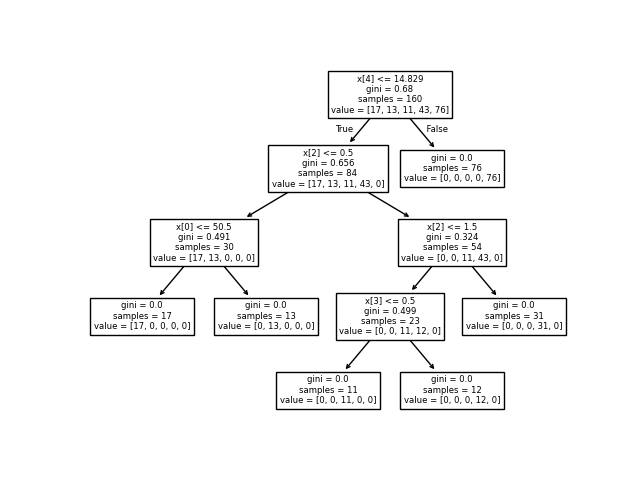
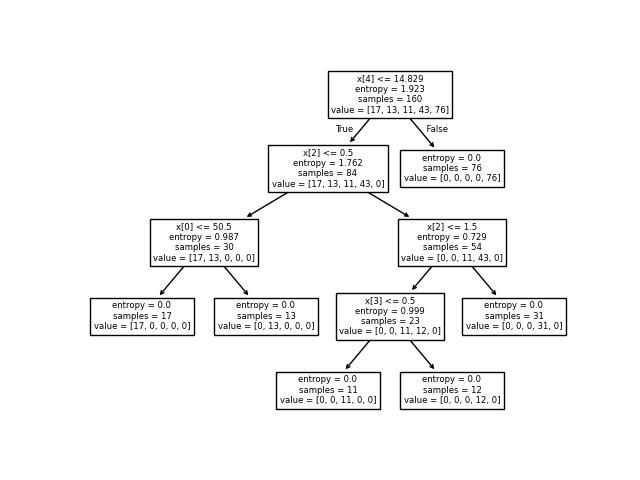
Regression trees

diff --git a/lecture-4:learning/coursera/Regression_Tree/model.py b/lecture-4:learning/coursera/Regression_Tree/model.py
@@ -1,0 +1,38 @@
+import pandas as pd
+from sklearn.preprocessing import normalize
+from sklearn.model_selection import train_test_split
+from sklearn.tree import DecisionTreeRegressor
+from sklearn.metrics import r2_score,mean_squared_error
+
+
+path="https://cf-courses-data.s3.us.cloud-object-storage.appdomain.cloud/pu9kbeSaAtRZ7RxdJKX9_A/yellow-tripdata.csv"
+data=pd.read_csv(path)
+
+
+correlation=data.corr()["tip_amount"].drop('tip_amount')
+# print(correlation)
+top_three=correlation.sort_values(ascending=False)[:3]
+print(top_three)
+
+evidence=data.drop('tip_amount',axis=1)
+evidence.drop(['payment_type', 'VendorID', 'store_and_fwd_flag', 'improvement_surcharge'],axis=1)
+evidence=evidence.values
+
+target=data[['tip_amount']].values.astype('float32')
+# print(target)
+
+evidence=normalize(evidence,norm='l1',copy=False)
+
+x_train,x_test,y_train,y_test=train_test_split(
+    evidence, target, test_size=0.2, random_state=32
+)
+
+model=DecisionTreeRegressor(criterion='squared_error',max_depth=4,random_state=35)
+model.fit(x_train,y_train)
+prediction=model.predict(x_test)
+
+mse=mean_squared_error(y_test,prediction)
+r2=r2_score(y_test,prediction)
+
+print('MSE score : {0:.3f}'.format(mse))
+print('R2 score : {0:.3f}'.format(r2))

diff --git a/lecture-4:learning/coursera/Decision_Tree/model.py b/lecture-4:learning/coursera/Decision_Tree/model.py
@@ -11,17 +11,21 @@ data=pd.read_csv(path)
 
 label_encoder=LabelEncoder()
 categorical_columns=data.select_dtypes(include=['object']).columns.tolist()
+categorical_columns.remove('Drug')
 
 for column in categorical_columns:
     data[column]=label_encoder.fit_transform(data[column])
 
+custom_map={'drugA':0,'drugB':1,'drugC':2,'drugX':3,'drugY':4}
+data["Drug_num"]=data['Drug'].map(custom_map)
+
 print(data.sample(5))
-# print(data.isnull().sum())
-corr=data.drop('Drug',axis=1).corr()
+
+corr=data.drop("Drug",axis=1).corr()["Drug_num"]
 print(corr)
 
 
-evidence=data.drop('Drug',axis=1)
+evidence=data.drop(['Drug','Drug_num'],axis=1)
 label=data['Drug']
 
 
@@ -30,7 +34,9 @@ x_train,x_test,y_train,y_test=train_test_split(
 )
 
 
-model=DecisionTreeClassifier()
+
+# 
+model=DecisionTreeClassifier(criterion='entropy',max_depth=4)
 model.fit(x_train,y_train)
 predictions=model.predict(x_test)
 plot_tree(model)
